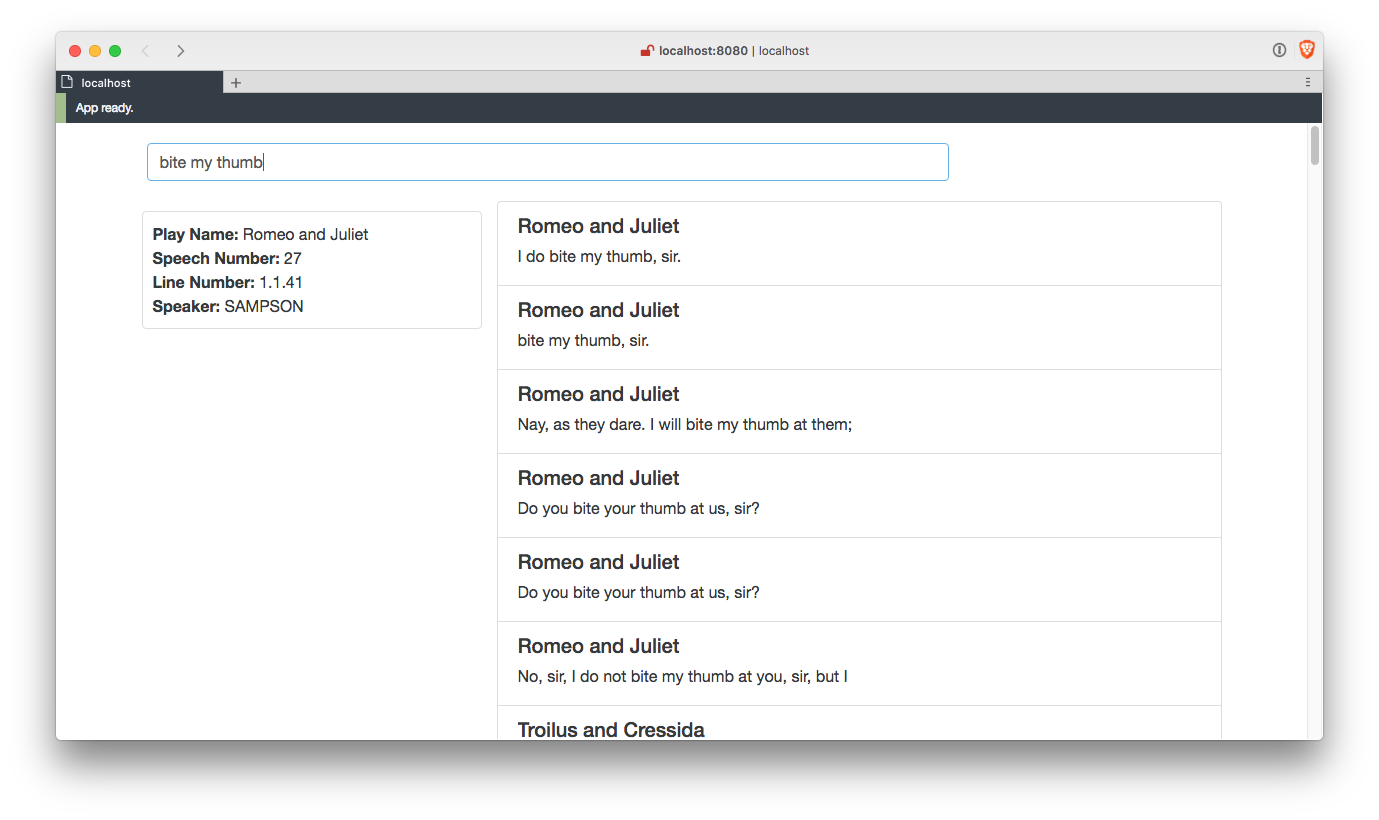
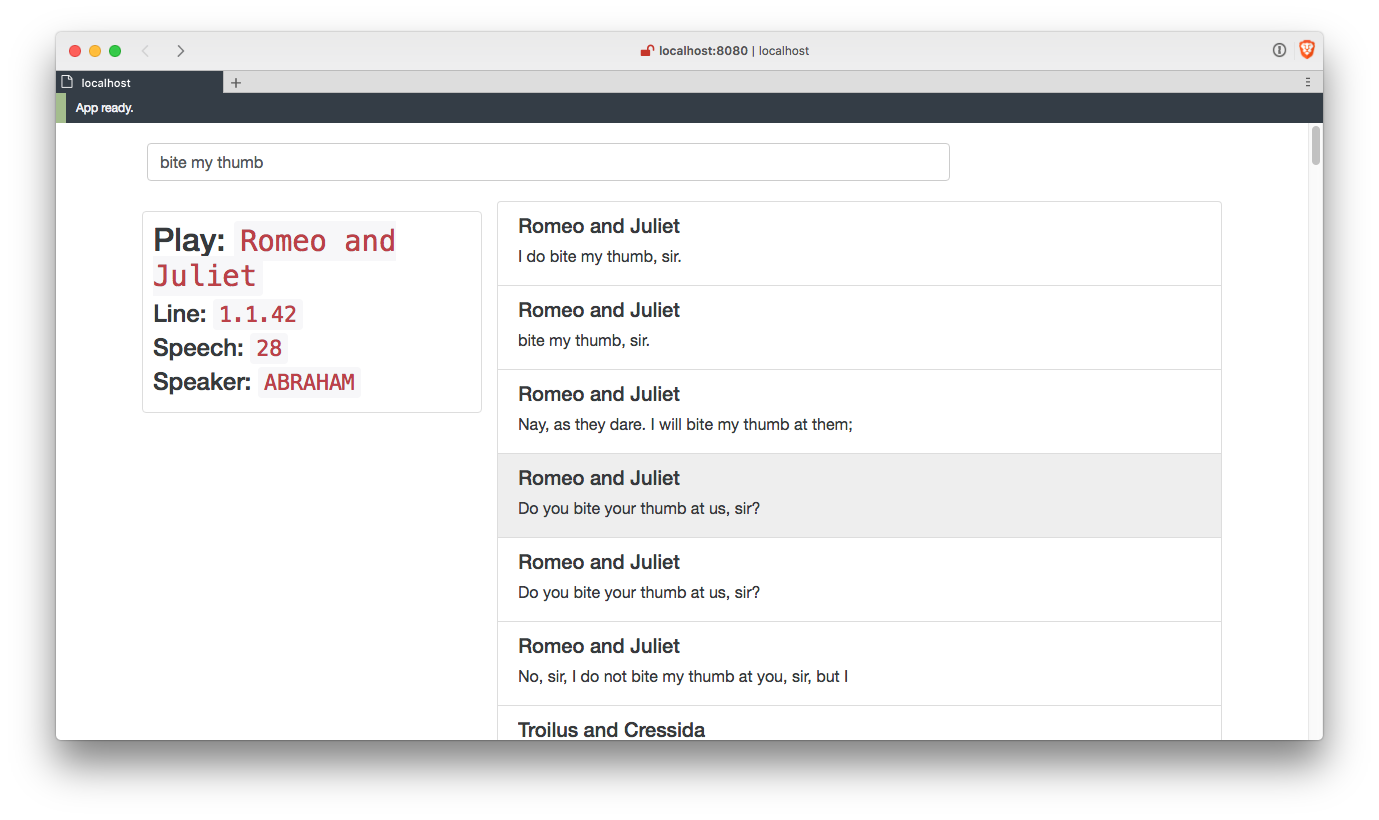
update

diff --git a/src/components/result_detail.js b/src/components/result_detail.js
@@ -13,10 +13,10 @@ const ResultDetail = ({ result }) => {
   return (
     <div className="result-detail col-md-4">
       <div className="details">
-        <div><b>Play Name: </b>{playName}</div>
-        <div><b>Speech Number: </b>{speechNumber}</div>
-        <div><b>Line Number: </b>{lineNumber}</div>
-        <div><b>Speaker: </b>{speaker}</div>
+        <div><h2>Play: <code>{playName}</code></h2></div>
+        <div><h4>Line: <code>{lineNumber}</code></h4></div>        
+        <div><h4>Speech: <code>{speechNumber}</code></h4></div>
+        <div><h4>Speaker: <code>{speaker}</code></h4></div>
       </div>
     </div>
   );
